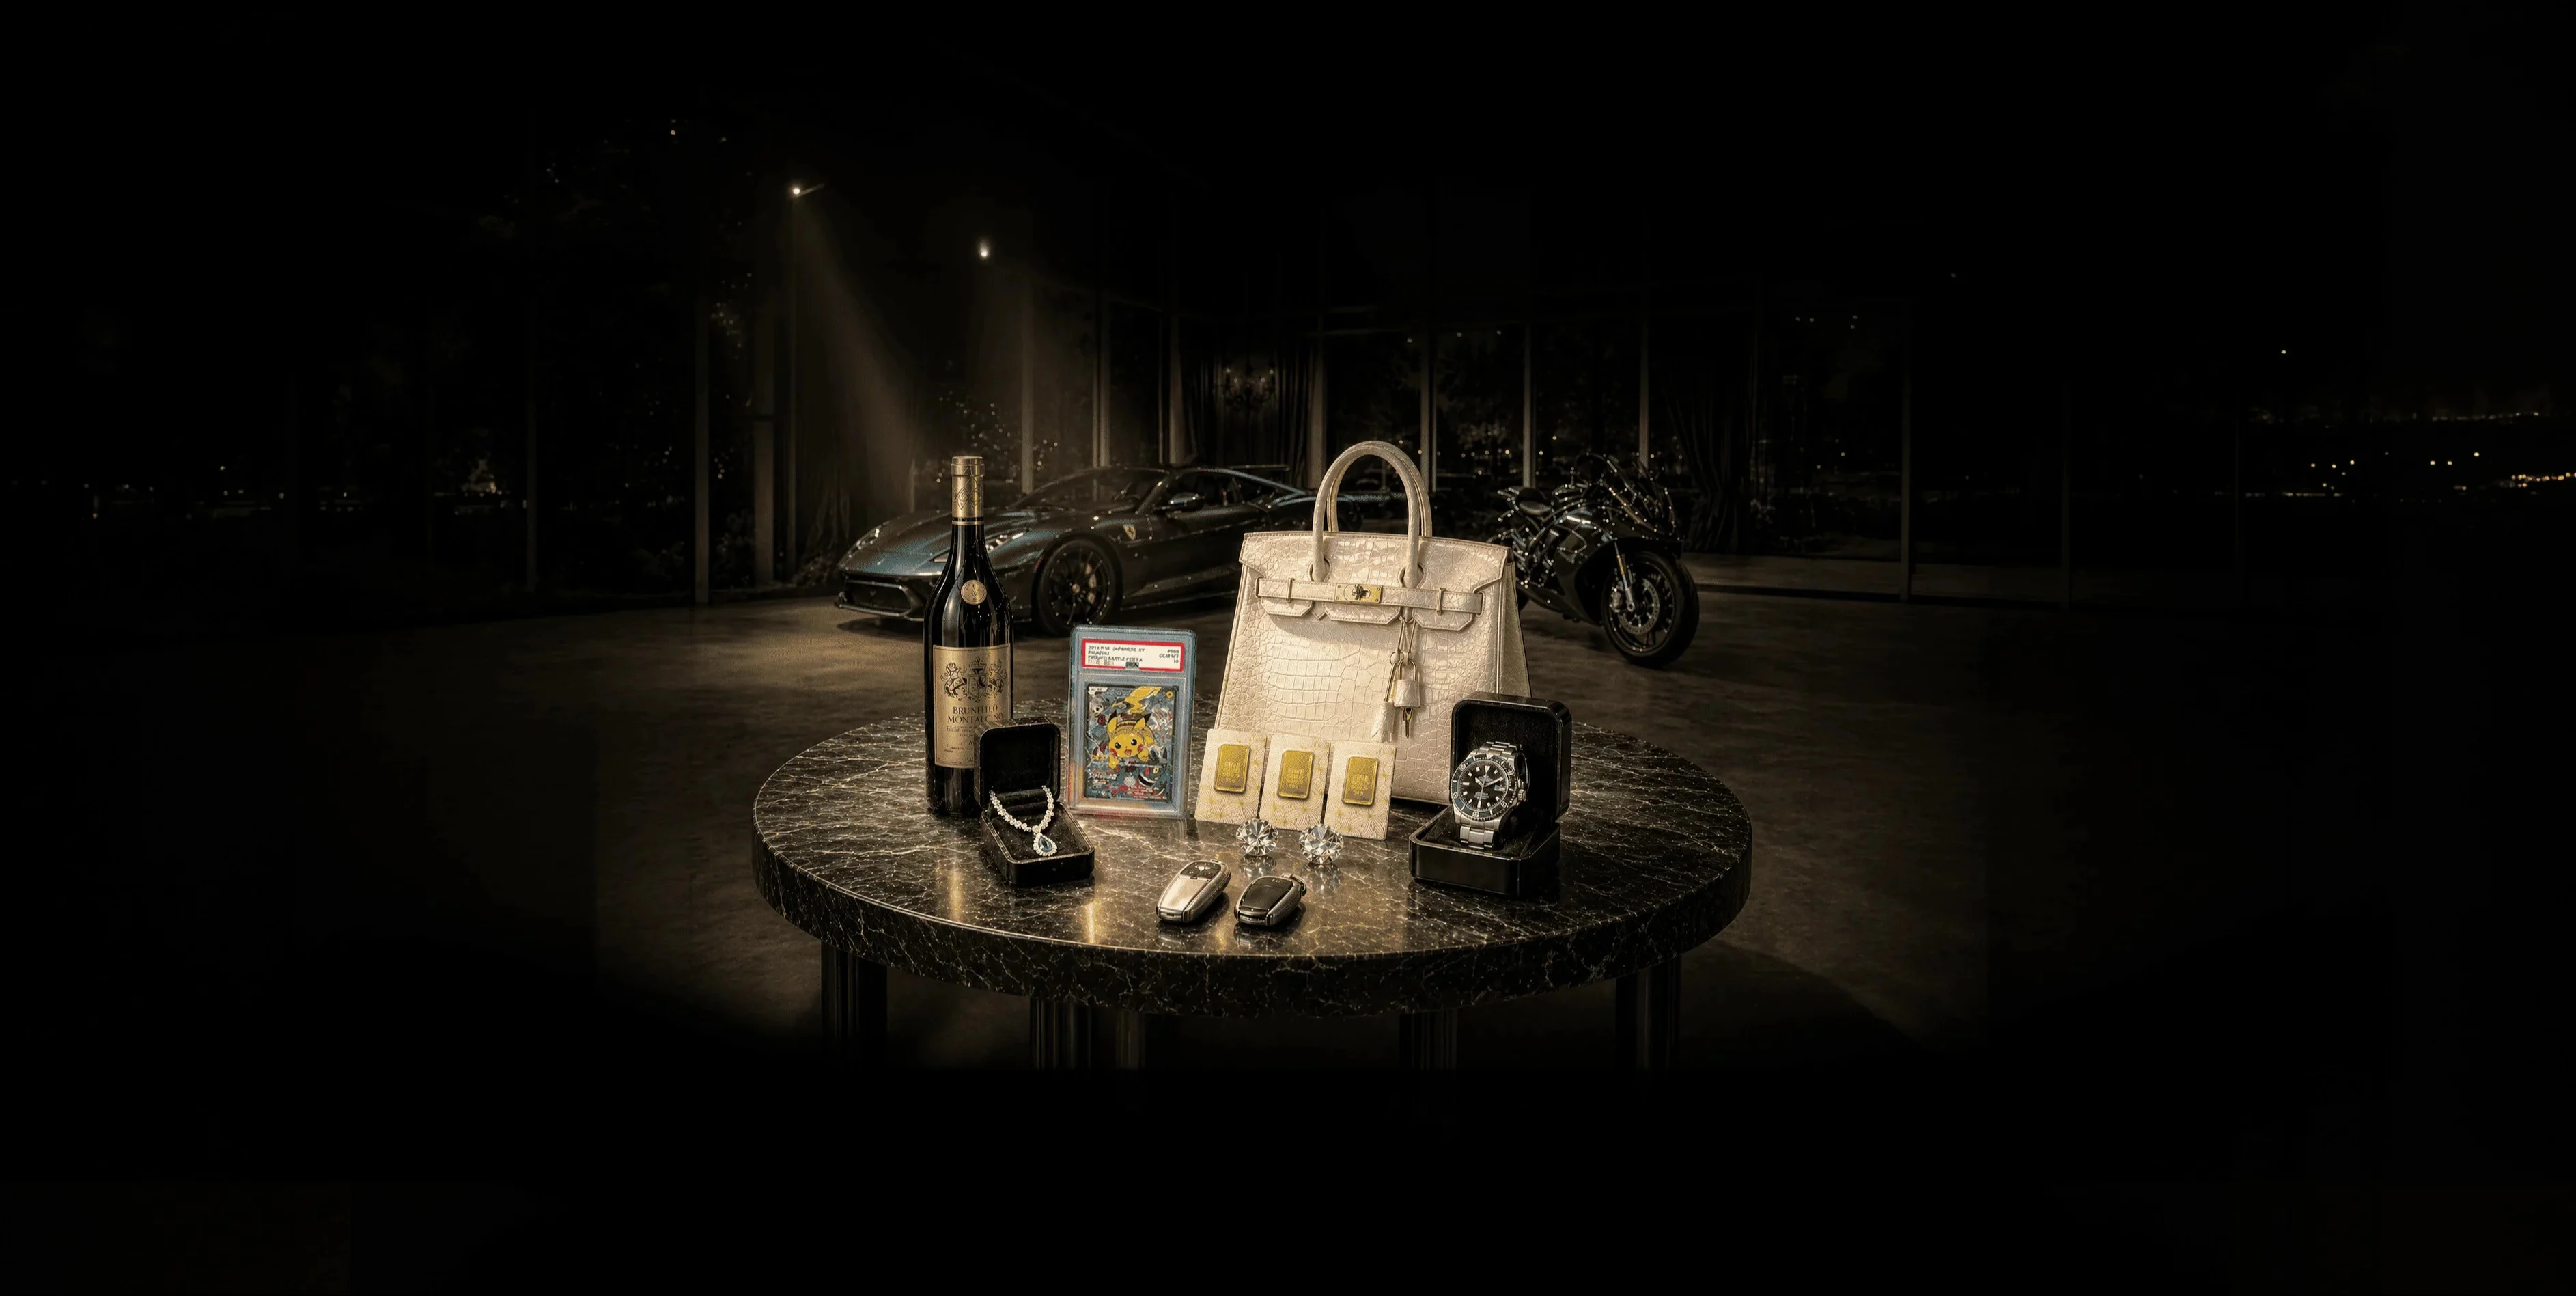
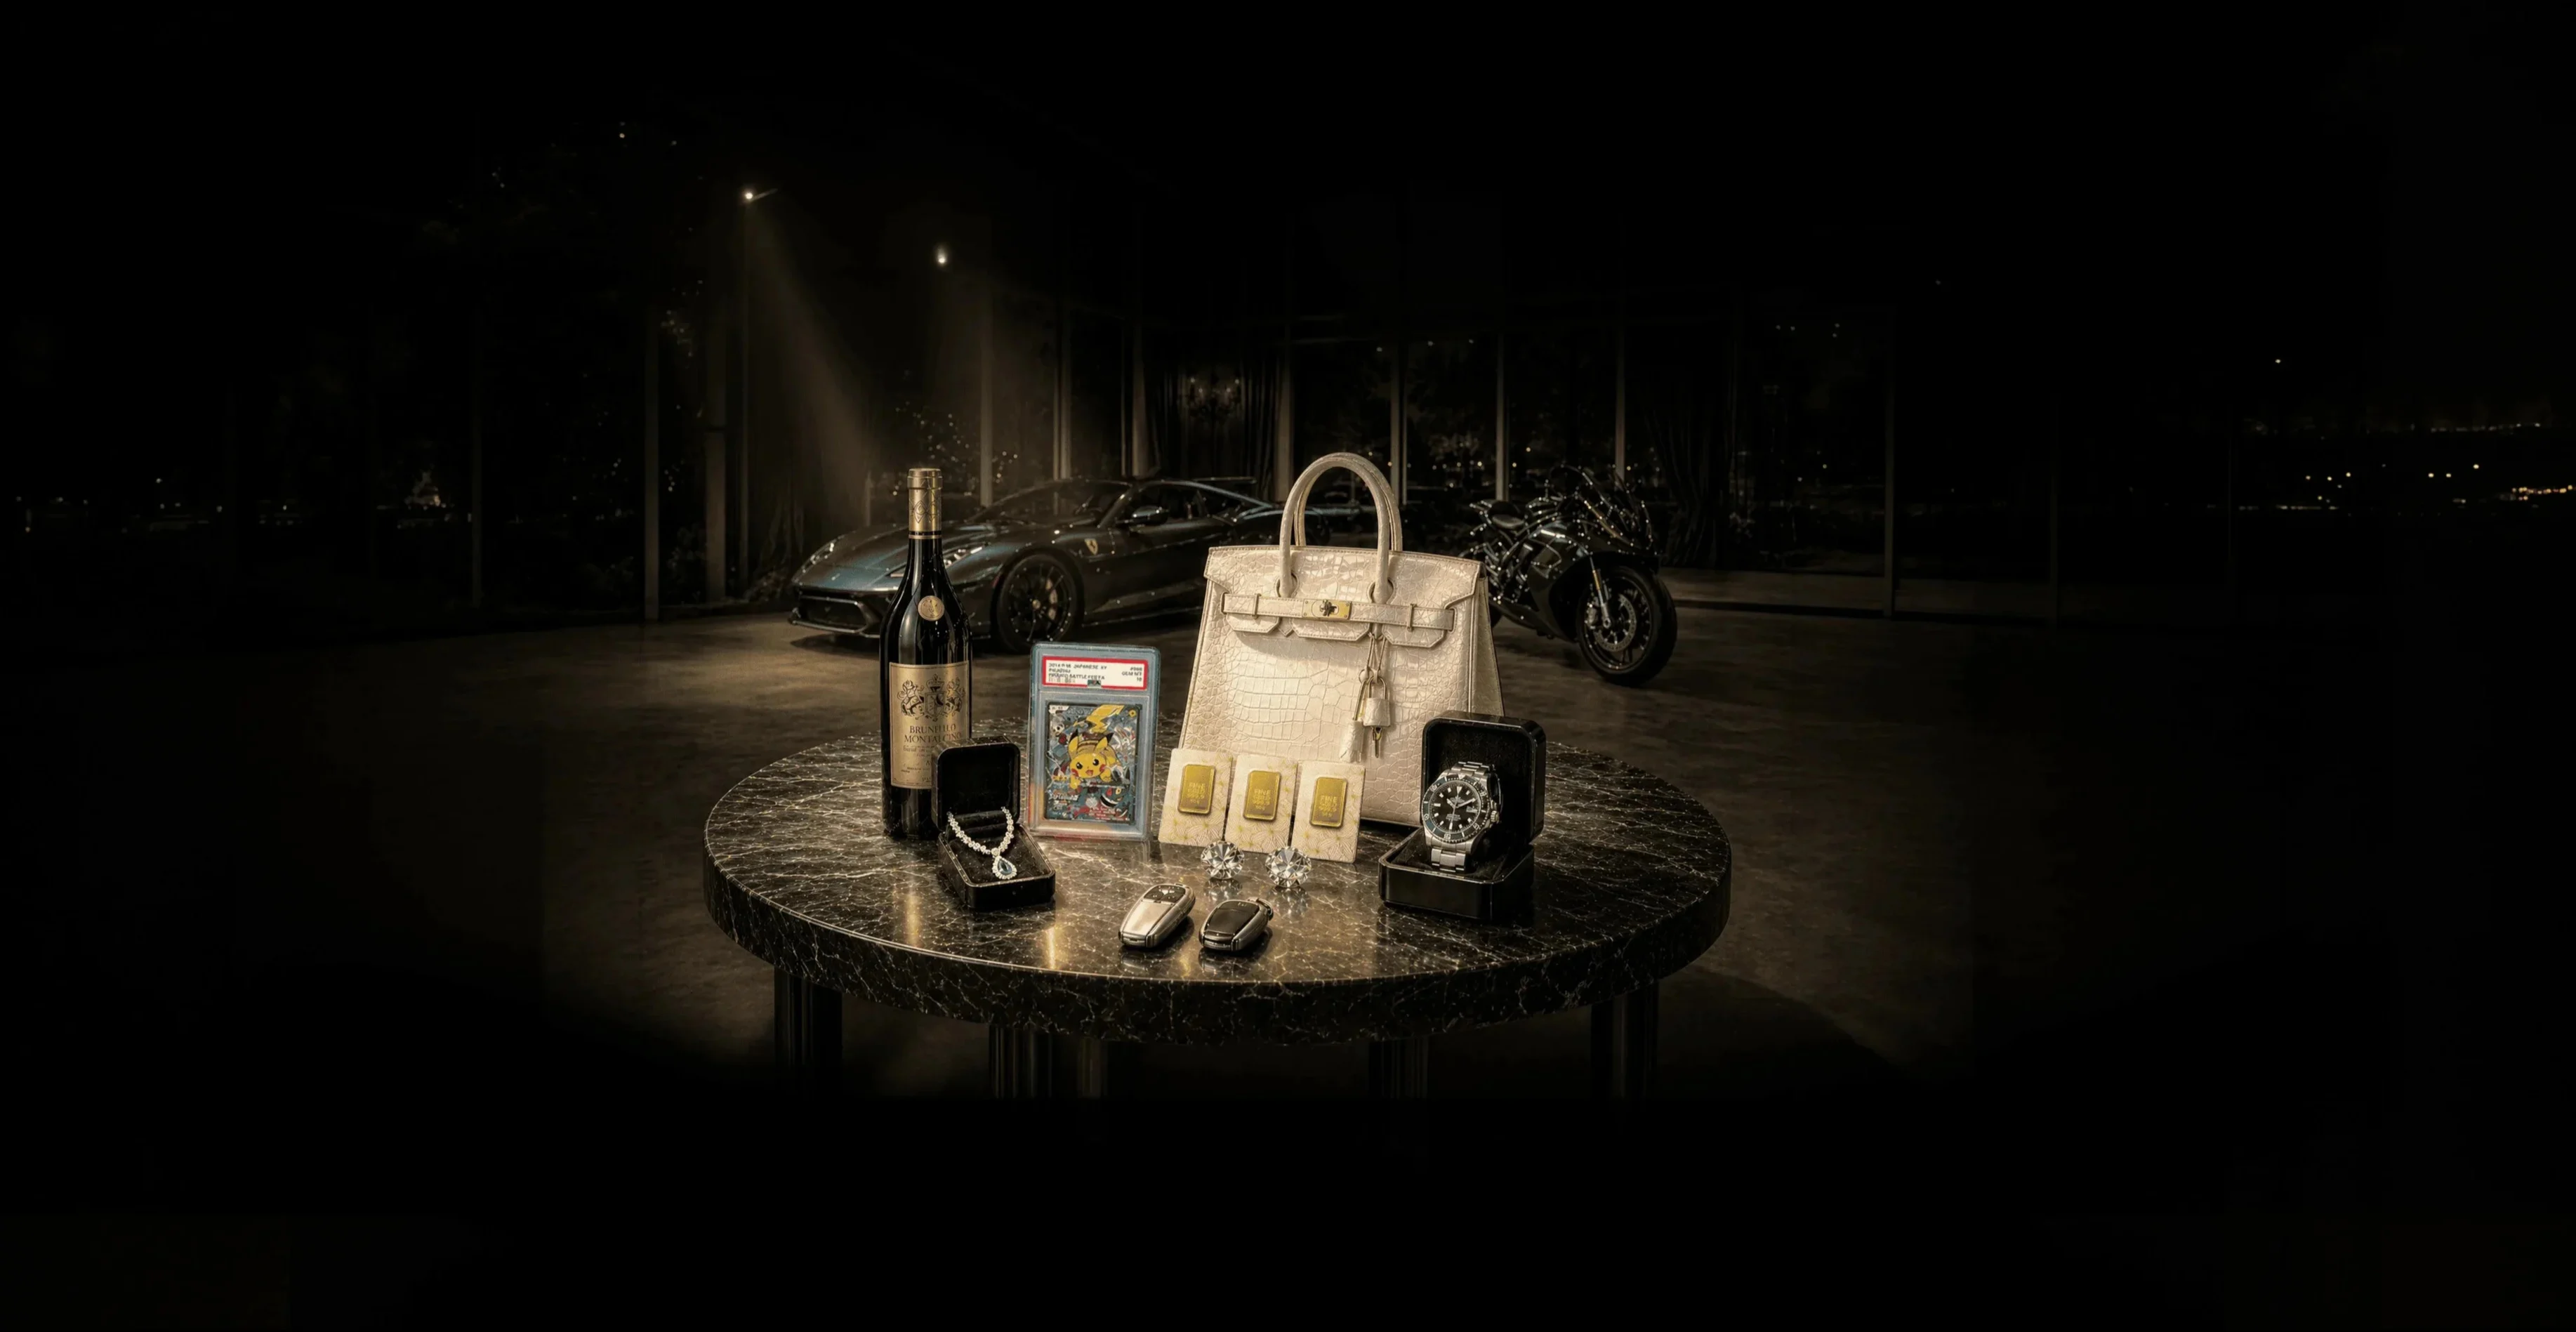
fix: adjust kendaraan product image position and scale for tablet/laptop

Changed region(s): [[0.2486, 0.2488, 0.6836, 0.8086], [0.2796, 0.1244, 0.3107, 0.1555]]

diff --git a/src/components/section_components/mainpage/Consult.tsx b/src/components/section_components/mainpage/Consult.tsx
@@ -22,15 +22,15 @@ let Consult = function () {
             <a className="text-[0.65rem] lg:text-base md:text-sm text-white/70 mb-8 md:mb-7 leading-relaxed max-w-[16.25rem] md:max-w-[17.5rem]">
               Konsultasikan sekarang via WhatsApp. <br />Terjamin Kerahasiaan & privasi 100%.
             </a>
-            <button className="btn-wa animate-pulse-whatsapp flex items-center justify-center gap-2 bg-[#006658] border border-white/20 text-white w-full md:w-auto px-6 py-3.5 md:px-5 md:py-3 rounded-xl text-base md:text-sm font-semibold relative z-[60] pointer-events-auto">
-              <FaWhatsapp className="text-xl" />
+            <button className="btn-wa animate-pulse-whatsapp flex items-center justify-center gap-1 bg-[#006658] border border-white/20 text-white w-full md:w-auto px-3 py-2.5 md:px-5 md:py-3 rounded-xl text-[0.5rem] md:text-sm font-semibold relative z-[60] pointer-events-auto">
+              <FaWhatsapp className="text-sm md:text-xl" />
               Konsultasi Valuasi Sekarang
             </button>
           </div>
         </div>
 
         <div className="bg-white relative z-20">
-          <div className="mx-[1rem] grid grid-cols-1 md:grid-cols-2 gap-3 md:gap-4 lg:-mt-[1.1rem] md:mt-0 !bg-white pt-2 pb-4 md:pt-[2rem] md:pb-[1rem] lg:py-4 rounded-b-xl md:rounded-b-2xl border-x md:border-none border-b md:border-none border-gray-200 relative z-10" style={{ backgroundColor: 'white' }}>
+          <div className="mx-[1rem] grid grid-cols-1 gap-3 md:gap-4 lg:-mt-[1.1rem] md:mt-0 !bg-white pt-2 pb-4 md:pt-[2rem] md:pb-[1rem] lg:py-4 rounded-b-xl md:rounded-b-2xl border-x md:border-none border-b md:border-none border-gray-200 relative z-10" style={{ backgroundColor: 'white' }}>
             <div className="card bg-white border border-gray-200 md:border-gray-200 rounded-xl p-4 md:p-7 flex flex-col">
               <div className="card-icon-wrap w-9 h-9 md:w-12 md:h-12 bg-[#C49A6C] rounded-lg md:rounded-xl flex items-center justify-center mb-3 md:mb-5">
                 <img src="/assets/img/81829e2cbb1d51f007adb0e183c5911e296267be.webp" width="1.5rem" className="brightness-0 w-[1.125rem] md:w-[1.5rem]" alt="image" />
@@ -55,28 +55,7 @@ let Consult = function () {
               </a>
             </div>
 
-            <div className="card bg-white border border-gray-200 md:border-gray-200 rounded-xl p-4 md:p-7 flex flex-col">
-              <div className="card-icon-wrap w-9 h-9 md:w-12 md:h-12 bg-[#C49A6C] rounded-lg md:rounded-xl flex items-center justify-center mb-3 md:mb-5">
-                <img src="/assets/img/d8d020e2c5ce16700e20195204cc0d38d6ba12bb.webp" width="1.5rem" className="brightness-0 w-[1.125rem] md:w-[1.5rem]" alt="image" />
-              </div>
-              <h3 className="text-xs md:text-lg font-extrabold text-[#111] mb-1.5 md:mb-2.5 leading-tight">
-                Layanan Jemput Barang
-              </h3>
-              <p className="text-[0.625rem] md:text-sm text-[#333] leading-relaxed mb-4 md:mb-6">
-                Untuk kenyamanan maksimal, PUI menyediakan layanan jemput
-                aset langsung ke lokasi Anda. Layanan ini dirancang bagi Anda yang
-                menginginkan proses praktis tanpa perlu datang ke kantor.
-                Tim kami akan datang dengan prosedur keamanan ketat dan profesionalisme tinggi dalam menangani setiap aset.
-              </p>
-              <a href="https://wa.me/6282277777911?text=Halo%20PUI,%20saya%20ingin%20booking%20layanan%20jemput%20aset%20ke%20lokasi%20saya." target="_blank" rel="noopener noreferrer" className="card-link mt-auto flex items-center gap-2 text-[#1B4332] font-semibold text-[0.5625rem] md:text-xs cursor-pointer animate-link-arrow">
-                Booking Jadwal Jemput Barang
-                <span className="w-4 h-4 bg-[#1B4332] rounded-full flex items-center justify-center">
-                  <svg width="8" height="8" viewBox="0 0 9 9" fill="none">
-                    <path d="M2 4.5h5M4.5 2l2.5 2.5L4.5 7" stroke="white" strokeWidth="1.2" strokeLinecap="round" strokeLinejoin="round" />
-                  </svg>
-                </span>
-              </a>
-            </div>
+            
           </div>
         </div>
       </div>

diff --git a/src/components/section_components/mainpage/Product.tsx b/src/components/section_components/mainpage/Product.tsx
@@ -29,8 +29,7 @@ let Product = function () {
         {
             title: "Kendaraan Premium",
             desc: "PUI menghadirkan layanan gadai kendaraan premium seperti Bentley, Ferrari, Lamborghini, Mercedes-Benz, Porsche, dan Rolls-Royce.",
-            image: "/assets/img/7c58ab2f499ac33473f3ebb7e780a42adc2b46d3.webp",
-            image_1: "/assets/img/275d928d0acce97c08200ee8a8246b06a9062207.webp",
+            image: "/assets/img/275d928d0acce97c08200ee8a8246b06a9062207.webp",
             slug: "kendaraan"
         },
         {
@@ -66,29 +65,21 @@ let Product = function () {
                                 borderBottomLeftRadius: "0px",
                                 borderBottomRightRadius: "0px"
                             }}>
-                                <div className={`image-wrapper transform md:scale-100 ${item.image_1 ? "scale-[0.85]" : "scale-[1.05]"}`}>
+                                <div className={`image-wrapper transform md:scale-100 ${item.slug === "kendaraan" ? "scale-[1.45] md:!scale-[1.45] lg:!scale-[1.55]" : "scale-[1.05]"}`}>
                                     <img
                                         src={item.image}
                                         alt={item.title}
                                         loading="lazy"
                                         style={{
-                                            width: item.slug === "emas" || item.slug === "koleksi" ? "10rem" : "13rem",
-                                            height: item.slug === "emas" || item.slug === "koleksi" ? "10rem" : "13rem",
-                                            marginTop: item.slug === "emas" || item.slug === "koleksi" || item.slug === "perhiasan" ? "0" : "1.5rem"
+                                            width: item.slug === "emas" || item.slug === "koleksi" ? "10rem" : item.slug === "kendaraan" ? "19rem" : "13rem",
+                                            height: item.slug === "emas" || item.slug === "koleksi" ? "10rem" : item.slug === "kendaraan" ? "19rem" : "13rem",
+                                            marginTop: item.slug === "emas" || item.slug === "koleksi" || item.slug === "perhiasan" ? "0" : item.slug === "kendaraan" ? "5rem" : "1.5rem"
                                         }}
-                                        className={`product-image md:!w-[11rem] md:!h-[11rem] lg:!w-[13rem] lg:!h-[13rem] ${item.image_1 ? "main" : "single"} ${item.variant === "rare" ? "aspect-[51/76]" : ""}`}
+                                        className={`product-image ${item.slug === "kendaraan" ? "md:!w-[15rem] md:!h-[15rem] lg:!w-[19rem] lg:!h-[19rem]" : "md:!w-[11rem] md:!h-[11rem] lg:!w-[13rem] lg:!h-[13rem]"} single ${item.variant === "rare" ? "aspect-[51/76]" : ""}`}
                                     />
-                                    {item.image_1 && (
-                                        <img
-                                            src={item.image_1}
-                                            alt={item.title}
-                                            loading="lazy"
-                                            className="product-image second opacity-80"
-                                        />
-                                    )}
                                 </div>
                             </div>
-<div className="mx-[0.5rem] p-1 mt-1 md:mx-[0.625rem] lg:mx-[1.06rem] md:mt-2 z-[100] text-left flex flex-col h-full md:min-h-[180px] lg:min-h-[200px]">
+                            <div className="mx-[0.5rem] p-1 mt-1 md:mx-[0.625rem] lg:mx-[1.06rem] md:mt-2 z-[100] text-left flex flex-col h-full md:min-h-[180px] lg:min-h-[200px]">
                                 <h3 className="text-xs md:text-base font-semibold mb-1 md:mb-2 text-[#EDE8D0]">
                                     {item.title}
                                 </h3>